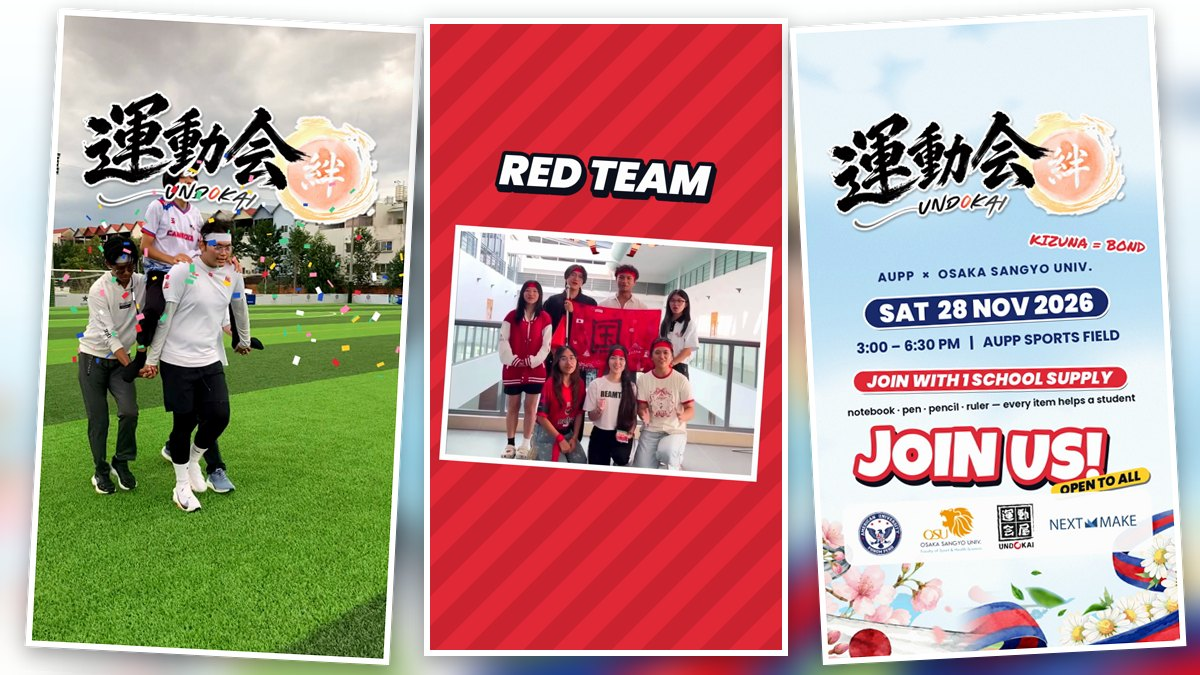
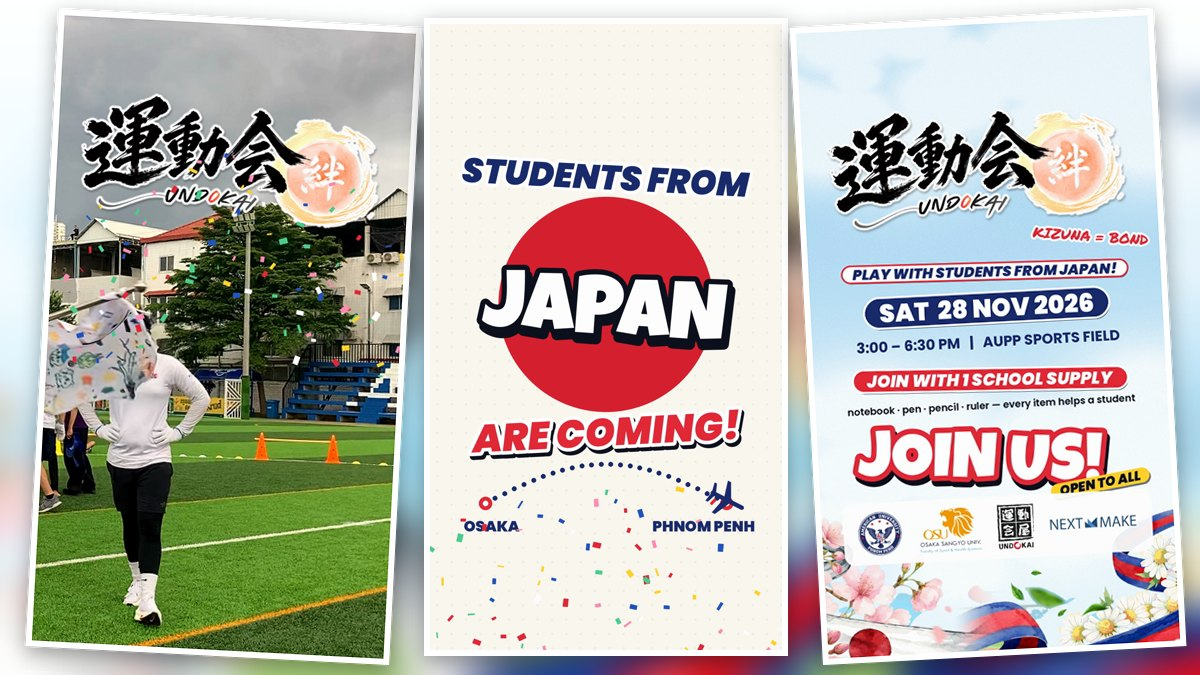
Lab site: reel v2 — Japanese students up front, cavalry trimmed
Page text, storyboard table and top-page card follow the new edit
(STUDENTS FROM JAPAN ARE COMING!, split screen into 絆); third cover
candidate cover_japan.jpg, copied only when the reel branch has it.

Claude-Session: https://claude.ai/code/session_01H98kDyTTWxd1qPaZqZFPJ7

diff --git a/site/undokai.html b/site/undokai.html
@@ -75,7 +75,7 @@
   <header>
     <div class="eyebrow">Charity UNDOKAI 2026 · AUPP × Osaka Sangyo Univ.</div>
     <h1>運動会 <span class="kz">絆</span> — Instagram Reel</h1>
-    <p>カンボジア AUPP の学生に向けた、参加者募集用の 30 秒リールです。2025 年の写真・動画と公式バナーから合成し、BGM の拍に合わせて編集しています。文字は英語で、漢字は演出（運動会・絆・協力・仲間・思い出）だけに使っています。</p>
+    <p>カンボジア AUPP の学生に向けた、参加者募集用の 30 秒リールです。一番の売りは「日本の大学生が来る」こと。2025 年の写真・動画、大阪産業大学の学生の写真、公式バナーから合成し、BGM の拍に合わせて編集しています。文字は英語で、漢字は演出（運動会・絆・協力・仲間・思い出）だけに使っています。</p>
   </header>
 
   <section class="stage">
@@ -99,28 +99,31 @@
   <h2>構成</h2>
   <div class="table-scroll">
   <table>
-    <thead><tr><th>秒</th><th>映像（運動会 2025）</th><th>文字</th></tr></thead>
+    <thead><tr><th>秒</th><th>映像</th><th>文字</th></tr></thead>
     <tbody>
-      <tr><td>0–3</td><td>騎馬がカメラに突進 → 騎馬戦。バナーの筆文字「運動会・絆」がドン、紙吹雪</td><td>—</td></tr>
-      <tr><td>3–7</td><td>開会式の日本・カンボジア国旗 → RED / BLUE / WHITE チームのカード</td><td>JAPAN × CAMBODIA</td></tr>
-      <tr><td>7–15</td><td>騎馬を組む → 持ち上がる → 突撃 → 騎馬戦</td><td>協力 TEAMWORK</td></tr>
-      <tr><td>15–21</td><td>綱引き（拍ごとにグイッ）→ 旗振り → 仲間の写真</td><td>PULL! ・ 仲間 FRIENDS</td></tr>
-      <tr><td>21–23.5</td><td>メダルの山に、昨年の集合写真がポラロイドで落ちてくる</td><td>思い出 MEMORIES</td></tr>
-      <tr><td>23.5–30</td><td>バナーを縦に組み直したエンドカード。曲の最後の一音で「絆」が弾む</td><td>日時・場所・参加方法・JOIN US!</td></tr>
+      <tr><td>0–2.4</td><td>旗を持って走る学生。バナーの筆文字「運動会・絆」がドン、紙吹雪</td><td>—</td></tr>
+      <tr><td>2.4–4.6</td><td>日の丸がポンと出て、飛行機が OSAKA → PHNOM PENH へ飛ぶ</td><td>STUDENTS FROM JAPAN ARE COMING!</td></tr>
+      <tr><td>4.6–7.5</td><td>大阪産業大学の学生の集合写真 → 旗を持つ 2 人</td><td>SEE YOU AT AUPP! ・ LET'S PLAY TOGETHER!</td></tr>
+      <tr><td>7.5–11.1</td><td>開会式の日本・カンボジア国旗 → RED / BLUE / WHITE チームのカード</td><td>JAPAN × CAMBODIA</td></tr>
+      <tr><td>11.1–15.5</td><td>騎馬が持ち上がる（雰囲気づくりの 1.5 秒だけ）→ 綱引き → 旗振り</td><td>協力 TEAMWORK ・ PULL!</td></tr>
+      <tr><td>15.5–19.8</td><td>仲間の写真 → メダルの山にポラロイド</td><td>仲間 FRIENDS ・ 思い出 MEMORIES</td></tr>
+      <tr><td>19.8–23.5</td><td>上に日本の学生、下に AUPP の学生。真ん中の × が「絆」に変わる</td><td>JAPAN ・ CAMBODIA ・ KIZUNA = BOND</td></tr>
+      <tr><td>23.5–30</td><td>バナーを縦に組み直したエンドカード。曲の最後の一音で「絆」が弾む</td><td>PLAY WITH STUDENTS FROM JAPAN! ・ 日時・場所・参加方法・JOIN US!</td></tr>
     </tbody>
   </table>
   </div>
 
   <h2>カバー画像の候補</h2>
   <div class="covers">
-    <a href="media/cover_hook.jpg"><img src="media/cover_hook.jpg" alt="騎馬と筆文字タイトル「運動会 絆」のカバー" loading="lazy" width="1080" height="1920"><span>タイトル＋騎馬</span></a>
+    <a href="media/cover_hook.jpg"><img src="media/cover_hook.jpg" alt="筆文字タイトル「運動会 絆」のカバー" loading="lazy" width="1080" height="1920"><span>タイトル</span></a>
+    <a href="media/cover_japan.jpg"><img src="media/cover_japan.jpg" alt="STUDENTS FROM JAPAN ARE COMING! のカバー" loading="lazy" width="1080" height="1920"><span>日本の学生が来る</span></a>
     <a href="media/cover_info.jpg"><img src="media/cover_info.jpg" alt="日時と場所が入ったエンドカードのカバー" loading="lazy" width="1080" height="1920"><span>日時・場所入り</span></a>
   </div>
 
   <h2>メモ</h2>
   <ul class="notes">
     <li>BGM は提供いただいた「クシコスポスト（TikTok 版）」を 30 秒に編集しています。原曲はパブリックドメインですが、この編曲・音源の権利は制作者にあります。投稿前に利用条件を確かめるか、Instagram の音楽ライブラリの同曲に差し替えてください。</li>
-    <li>映像は 2025 年の運動会のものです（2025 年の「AUPP x SWITCH」の看板が写った写真は使っていません）。</li>
+    <li>映像は 2025 年の運動会のもの（「AUPP x SWITCH」の看板が写った写真は除外）と、大阪産業大学の学生の写真です。今年は騎馬戦がないため、騎馬は雰囲気づくりの 1 カットだけにしています。</li>
     <li>作り方・スクリプト：<a href="https://github.com/tomy1031/lab/tree/claude/ecstatic-thompson-v7ve2u/undokai-reel">undokai-reel（GitHub）</a>・<a href="https://github.com/tomy1031/lab/pull/3">プルリクエスト #3</a></li>
   </ul>
 

diff --git a/site/index.html b/site/index.html
@@ -144,7 +144,7 @@
       <div class="notes">
         <div class="tags"><span>映像</span><span>Instagram リール</span><span>30 秒・縦型</span></div>
         <h2>運動会 絆</h2>
-        <p class="lead">Charity UNDOKAI 2026（AUPP × 大阪産業大学）の参加者募集リール。去年の騎馬戦・綱引き・メダルの写真と動画を、BGM の拍に合わせてつなぎ、バナーを縦に組み直したエンドカードで締めます。</p>
+        <p class="lead">Charity UNDOKAI 2026（AUPP × 大阪産業大学）の参加者募集リール。「日本の大学生がやって来る！」を軸に、大阪産業大学の学生の写真と去年の運動会の映像を BGM の拍に合わせてつなぎ、日本とカンボジアが「絆」で結ばれる流れで締めます。</p>
         <p class="note">文字は英語、漢字は演出だけ。投稿用の 1080p はページからダウンロードできます。</p>
         <div class="actions">
           <a class="btn primary" href="undokai-reel/">映像を見る</a>
